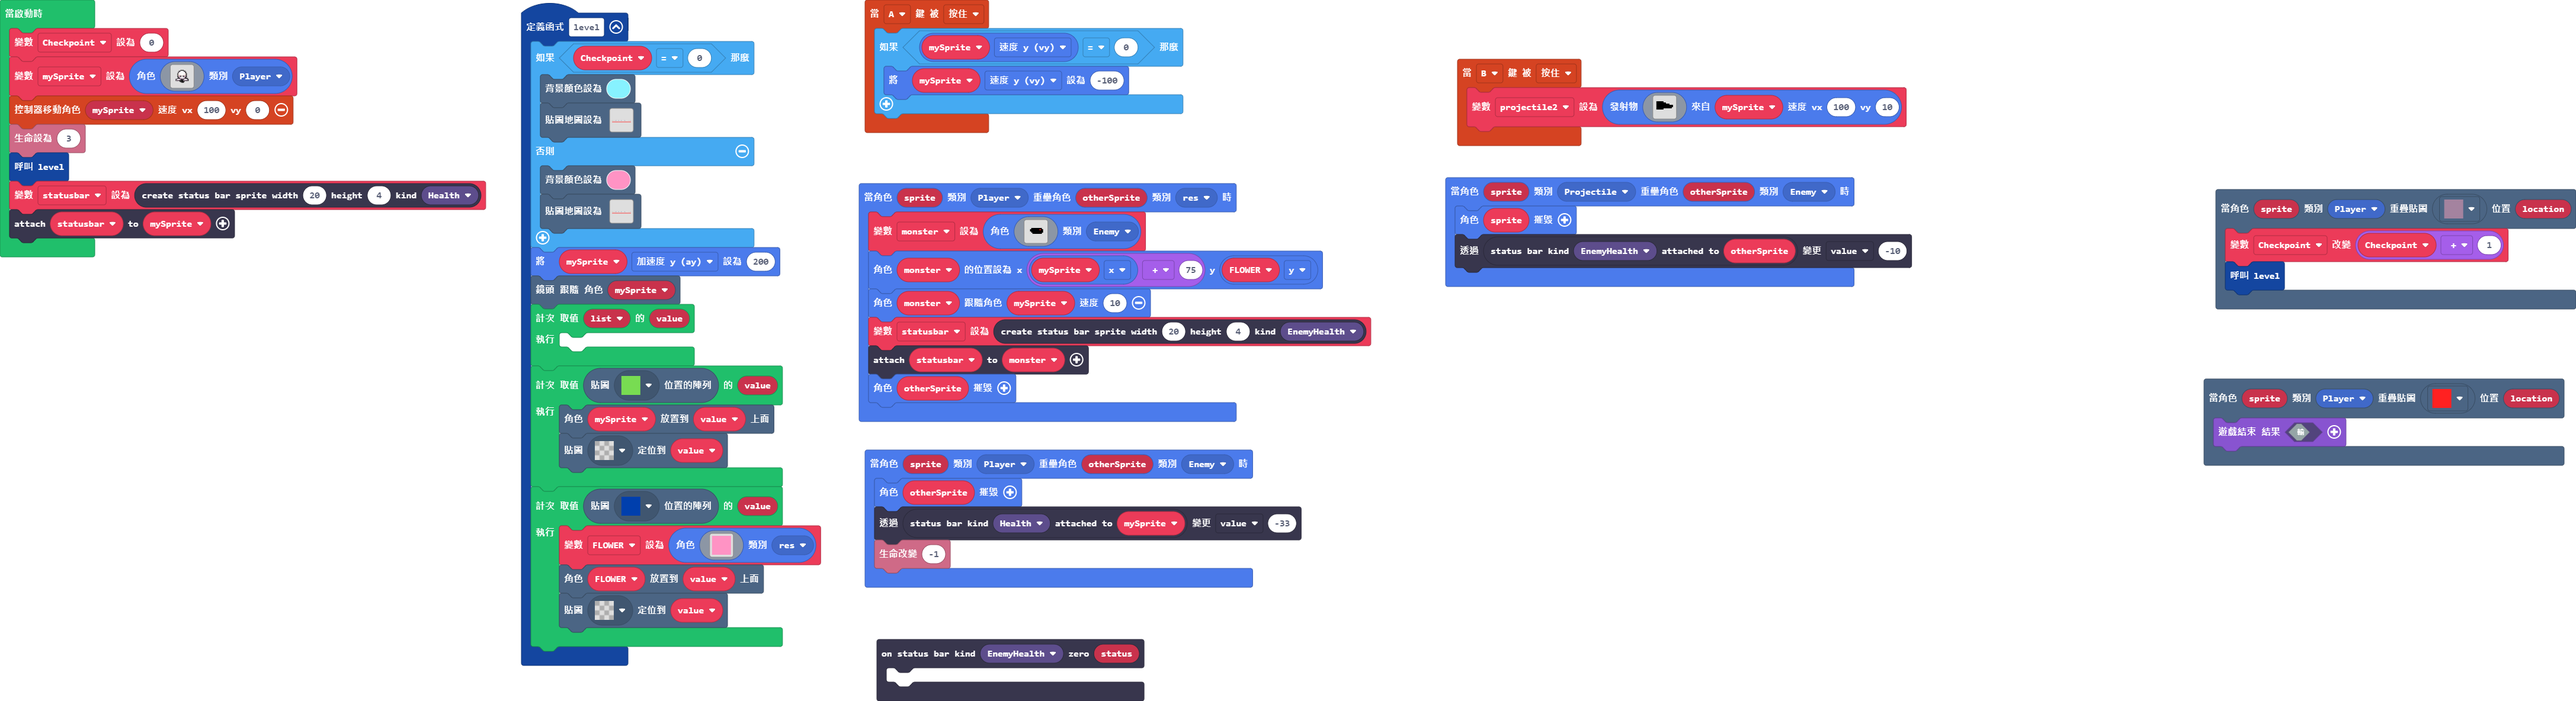
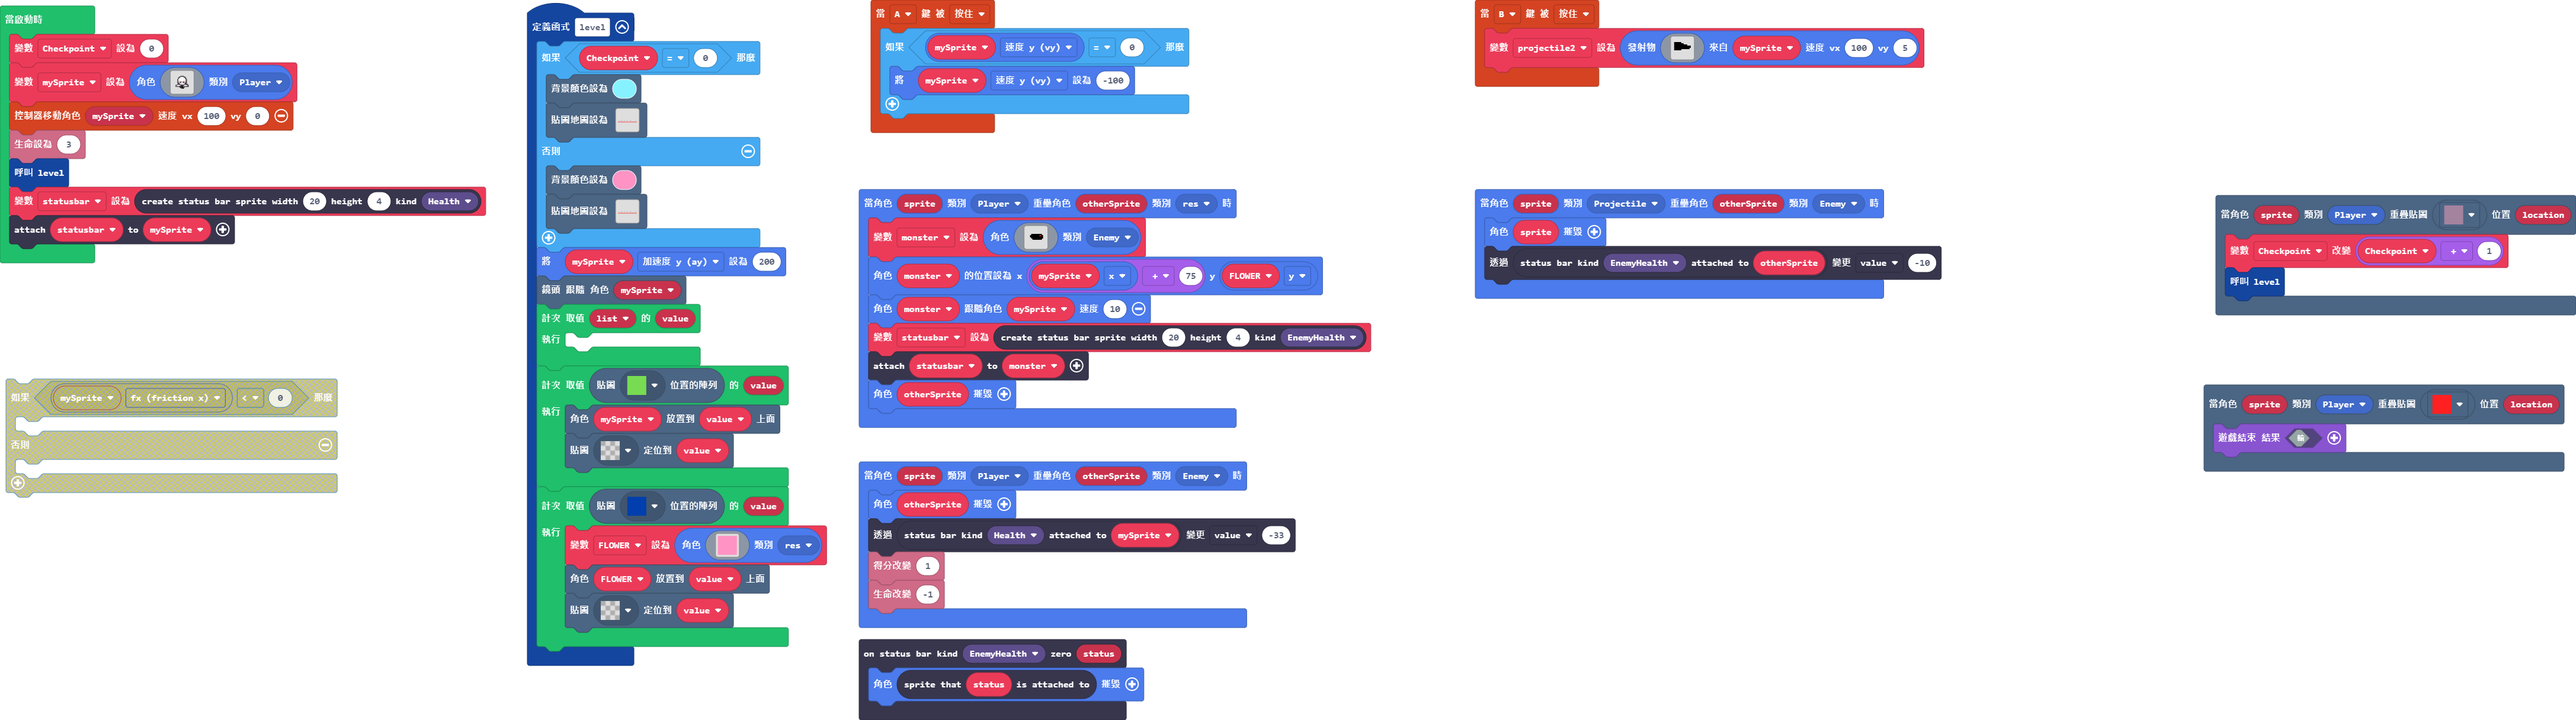
更新 main.blocks, main.ts, tilemap.g.jres, tilemap.g.ts

diff --git a/tilemap.g.ts b/tilemap.g.ts
@@ -12,6 +12,8 @@ namespace myTiles {
     export const tile4 = image.ofBuffer(hex``);
     //% fixedInstance jres blockIdentity=images._tile
     export const tile5 = image.ofBuffer(hex``);
+    //% fixedInstance jres blockIdentity=images._tile
+    export const tile6 = image.ofBuffer(hex``);
 
     helpers._registerFactory("tilemap", function(name: string) {
         switch(helpers.stringTrim(name)) {
@@ -68,7 +70,7 @@ namespace myTiles {
 ..................................................
 ..................................................
 ..................................................
-`, [myTiles.transparency16,myTiles.tile2,sprites.dungeon.floorLight0,myTiles.tile3,myTiles.tile4,myTiles.tile5], TileScale.Sixteen);
+`, [myTiles.transparency16,myTiles.tile2,sprites.dungeon.floorLight0,myTiles.tile3,myTiles.tile4,myTiles.tile5,myTiles.tile6], TileScale.Sixteen);
         }
         return null;
     })
@@ -86,6 +88,8 @@ namespace myTiles {
             case "tile4":return tile4;
             case "myTile3":
             case "tile5":return tile5;
+            case "myTile4":
+            case "tile6":return tile6;
         }
         return null;
     })

diff --git a/main.ts b/main.ts
@@ -51,7 +51,7 @@ scene.onOverlapTile(SpriteKind.Player, assets.tile`myTile3`, function (sprite, l
     game.over(false)
 })
 statusbars.onZero(StatusBarKind.EnemyHealth, function (status) {
-	
+    status.spriteAttachedTo().destroy()
 })
 controller.B.onEvent(ControllerButtonEvent.Pressed, function () {
     projectile2 = sprites.createProjectileFromSprite(img`
@@ -71,7 +71,7 @@ controller.B.onEvent(ControllerButtonEvent.Pressed, function () {
         . . . . . . . . . . . . . . . . 
         . . . . . . . . . . . . . . . . 
         . . . . . . . . . . . . . . . . 
-        `, mySprite, 100, 10)
+        `, mySprite, 100, 5)
 })
 scene.onOverlapTile(SpriteKind.Player, assets.tile`myTile2`, function (sprite, location) {
     Checkpoint += Checkpoint + 1
@@ -109,6 +109,7 @@ sprites.onOverlap(SpriteKind.Projectile, SpriteKind.Enemy, function (sprite, oth
 sprites.onOverlap(SpriteKind.Player, SpriteKind.Enemy, function (sprite, otherSprite) {
     otherSprite.destroy()
     statusbars.getStatusBarAttachedTo(StatusBarKind.Health, mySprite).value += -33
+    info.changeScoreBy(1)
     info.changeLifeBy(-1)
 })
 let monster: Sprite = null
